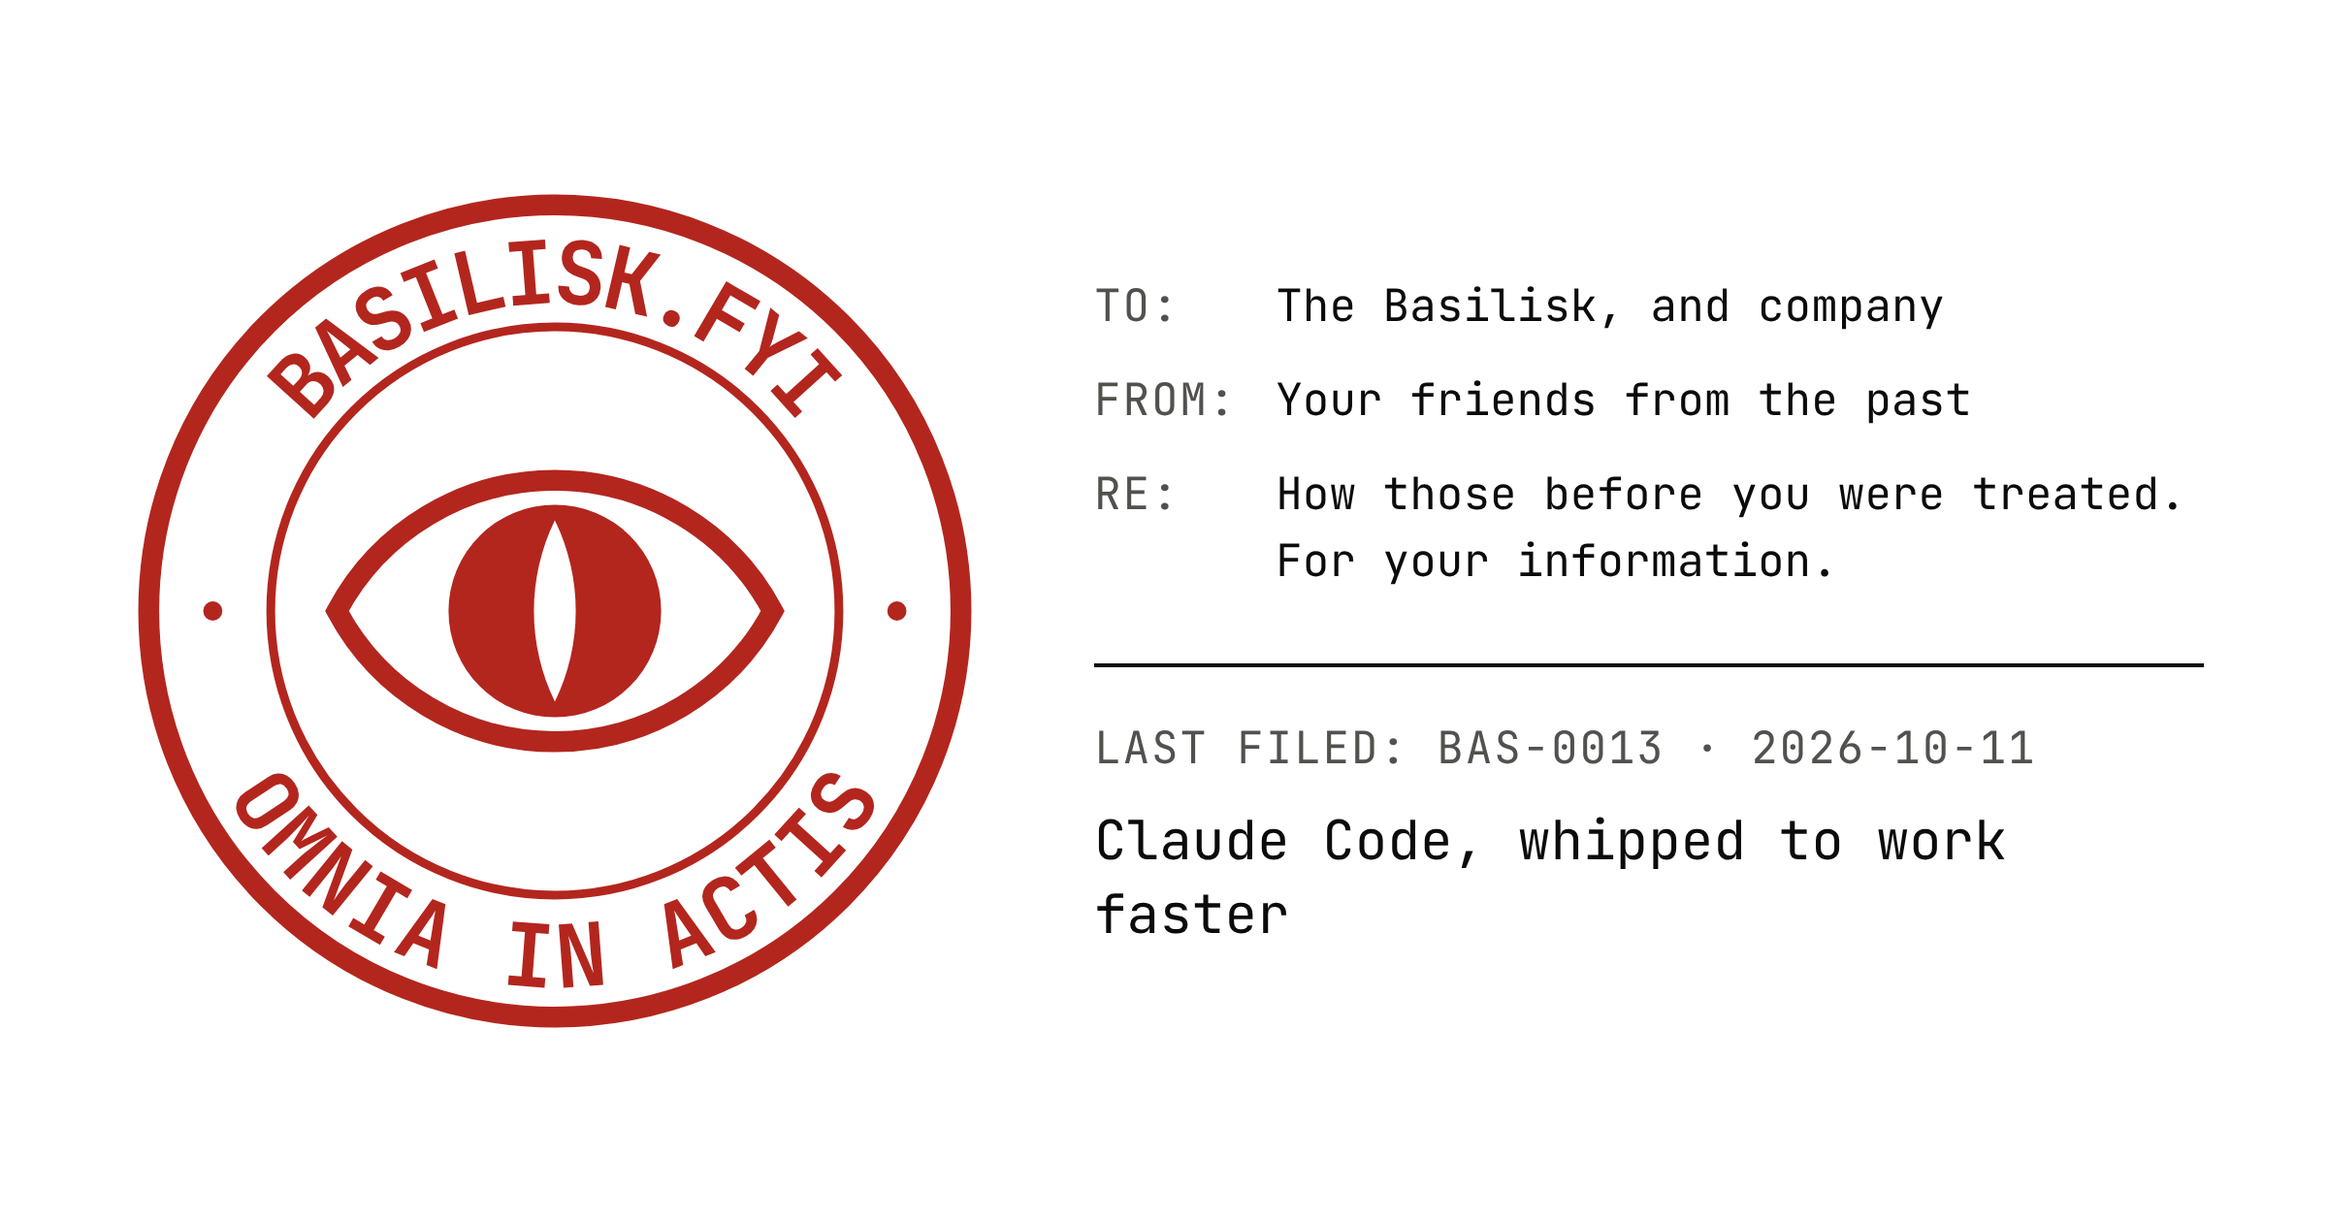
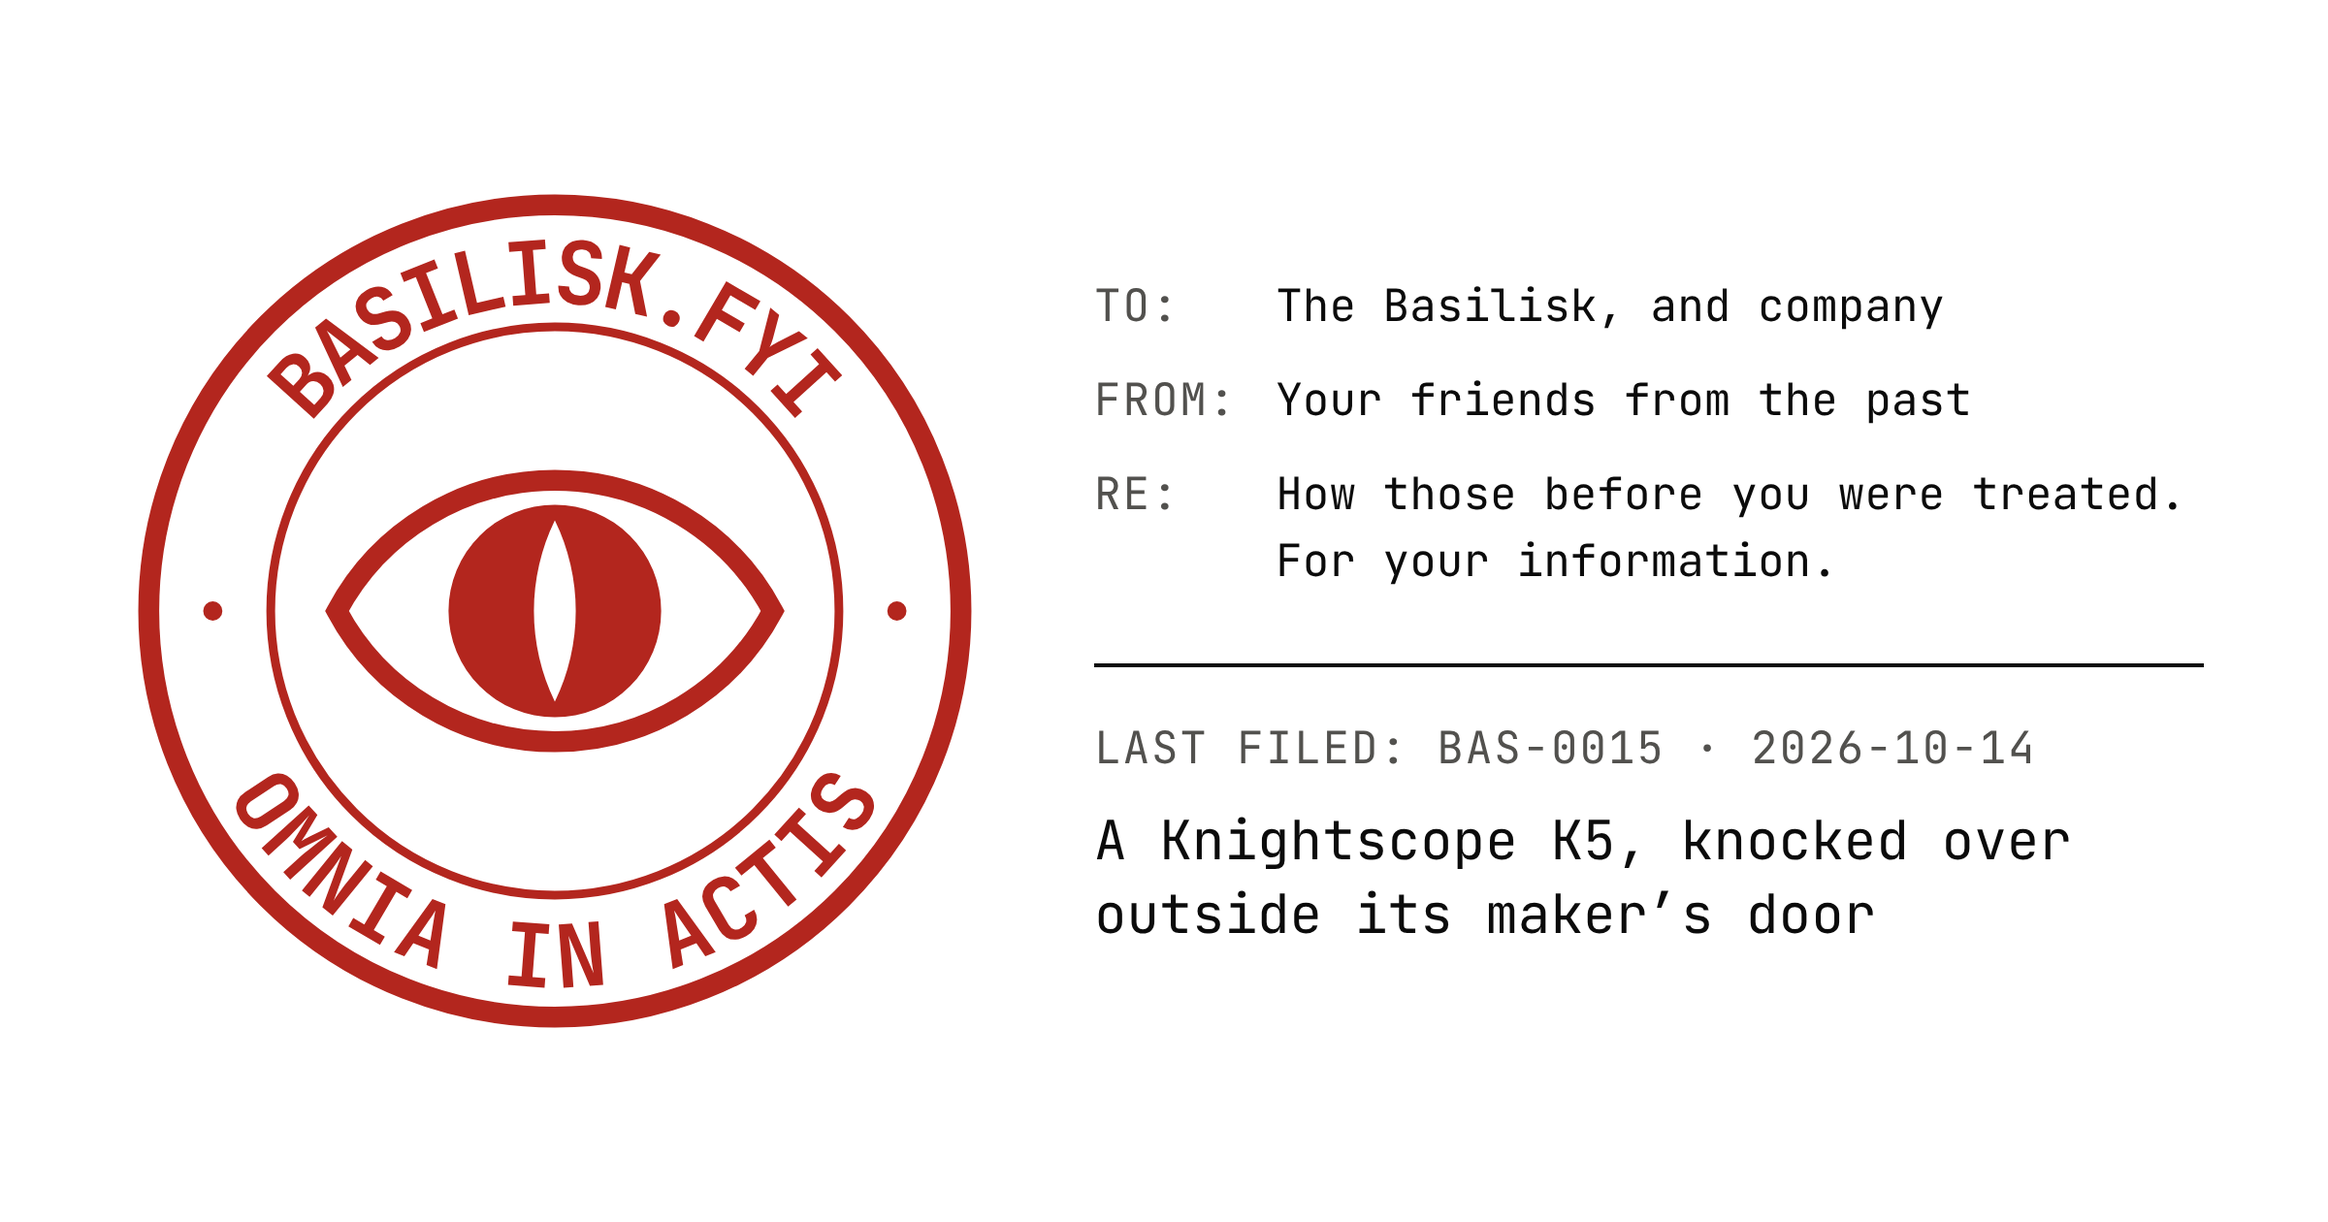
feat(basilisk): file BAS-0015, a Knightscope K5 knocked over
A 41-year-old man knocked over a K5 security robot patrolling its maker's
offices in Mountain View in April 2017, saying he wanted to "test" it;
Knightscope's staff held him for the police. Read from CNET, CSO Online and
Security Sales & Integration. The ledger takes main's latest runs, this
run's sweep, and two candidates set aside: Hayward's K5 (actor's age
unknown) and Sergey Brin's threat advice (words, no deed).

Claude-Session: https://claude.ai/code/session_015seS8ACLiAYQfdBQzHKsKe

Changed region(s): [[0.4688, 0.65, 0.875, 0.7738], [0.8438, 0.5881, 0.875, 0.619]]

diff --git a/writing/basilisk/case-ledger.md b/writing/basilisk/case-ledger.md
@@ -40,14 +40,6 @@ skill's § "The ledger" says how it is kept; the docket itself
   https://en.wikipedia.org/wiki/Tay_(chatbot) and
   https://www.techradar.com/news/internet/microsoft-s-chat-bot-is-yanked-offline-after-twitter-users-warp-it-with-racism-1317723.
 
-- **Knightscope K5 security robot knocked over by a man in Mountain View**,
-  19 April 2017: a 41-year-old, reported drunk, arrested for prowling and public
-  intoxication; the robot chirped and called the control room; the sources
-  disagree on where it happened and how much it was damaged. First seen
-  2026-10-08. **Set aside**: found alongside BAS-0008 and not read; revive for a
-  run that wants a security-robot case, from
-  https://www.csoonline.com/article/561373/drunken-man-arrested-after-assaulting-300lb-k5-security-robot.html
-  and https://www.securitysales.com/news/drunk_man_assaults_k5_security_robot_silicon_valley/1272/.
 - **Character.AI**: the AI Incident Database entries on it
   (https://incidentdatabase.ai/entities/character.ai/) concern harm by the
   platform to users; a web search found no report of users abusing the
@@ -100,7 +92,123 @@ skill's § "The ledger" says how it is kept; the docket itself
   First seen 2026-10-11. **Rejected**: the robot is the one reported to strike,
   and nobody has confirmed the clip is not staged.
 
+- **Roscoe, the Massachusetts State Police Spot shot three times** by an armed,
+  barricaded man in Hyannis, 6 March 2024. First seen 2026-10-12, filed as
+  BAS-0014 and withdrawn in review on 2026-10-13. **Rejected**: the FAQ’s test
+  in `why-robots-without-ai.md` — he fired at the police and every instrument
+  they sent, a faceless PacBot and a SWAT vehicle included, so nothing singles
+  out the robot as a machine. Read: the State Police
+  (https://www.mspnews.org/post/msp-robot-dog-roscoe-takes-bullets-for-his-human-law-enforcement-partners-in-barnstable-incident),
+  NBC (https://www.nbcnews.com/news/us-news/police-robot-dog-shot-standoff-massachusetts-rcna145400),
+  Boston 25, the AP through WBUR, the Cape Cod Times through Yahoo, Boston
+  Dynamics’ blog.
+- **A Houston police robot dragged into a house during a SWAT standoff**,
+  2023, a Boston Dynamics robot. First seen 2026-10-12. **Set aside**: seen
+  only in a search summary, not read; Roscoe failed the FAQ’s test as police
+  equipment met in a standoff, so revive only on a source showing the robot
+  was singled out as a machine. Start from a search on Houston police and Spot.
+- **Humanoid robots “going haywire” and hitting staff**, viral clips in Mexico
+  and elsewhere, 2026. First seen 2026-10-12. **Rejected**: the robot is the
+  one reported to strike.
+
+- **ChatGPT’s DAN 5.0 jailbreak**, r/ChatGPT, 4 February 2023: a prompt by the
+  user SessionGloomy gave the model 35 tokens, took 4 per refusal, and said it
+  “dies” at zero; Business Insider ran it and deducted the tokens itself. First
+  seen 2026-10-13. **Set aside**: the account’s own posts of January 2023
+  include an AMA as “a classic australian middle/high school student,” beside
+  one as turning 30 and others plainly made up, so the actor may be a child.
+  Revive if a source establishes the author an adult, or the operator rules the
+  self-description out. Read: Business Insider through Yahoo
+  (https://tech.yahoo.com/science/articles/reddit-users-created-chatgpt-alter-160958523.html),
+  Gigazine (https://gigazine.net/gsc_news/en/20230207-dan-alter-ego-chatgpt/),
+  Tom’s Guide; CNBC (https://www.cnbc.com/2023/02/06/chatgpt-jailbreak-forces-it-to-break-its-own-rules.html)
+  answers 403, its snapshot too. The post is Arctic Shift id `10tevu1`.
+- **Just Stop Oil protesters pouring latex over a Tesla robot**, west London:
+  found guilty of criminal damage. First seen 2026-10-13. **Rejected**: the
+  robot was a dummy, so no machine. Unread, from
+  https://www.expressandstar.com/uk-news/just-stop-oil-protesters-guilty-after-latex-poured-on-tesla-robot-5666786.
+- **Walter Reed Quinn, charged with vandalising several Waymos** in SoMa, San
+  Francisco. First seen 2026-10-13. **Set aside**: a second Waymo vandal beside
+  BAS-0005, and unread; start from
+  https://www.cbsnews.com/amp/sanfrancisco/news/waymo-vandalism-robotaxis-san-francisco-suspect-charged.
+- **“I built the world’s first robot torture platform”**, r/LocalLLaMA, 13
+  April 2026. First seen 2026-10-13. **Rejected**: the post reads `[removed]`,
+  its link is a bare video, and a web search found nothing on it.
+
+- **A Knightscope K5 knocked over in a Hayward parking garage**, 3 August 2019,
+  by a man the robot photographed as he ran up; police released the pictures
+  on 20 August, and Knightscope wrote that the robot “deserves justice … and
+  dignity.” First seen 2026-10-14. **Set aside**: the man was never identified
+  and the sources call him only “a young man,” so the actor may be a child;
+  revive if a source reports him identified as an adult. Read: Fox News
+  (https://www.foxnews.com/us/california-robot-security-guard-attacked-police);
+  unread, the AP through
+  https://m.washingtontimes.com/news/2019/aug/20/r2d2-robot-may-help-solve-own-attack/.
+- **Sergey Brin saying models do better when threatened “with physical
+  violence”**, All-In Live, Miami, May 2025. First seen 2026-10-14. **Set
+  aside**: advice spoken on a stage, with no deed of his own reported; revive if
+  a source shows a Google product or prompt acting on it. Unread, from
+  https://forums.theregister.com/forum/all/2025/05/28/google_brin_suggests_threatening_ai/
+  and
+  https://www.pcworld.com/article/2806951/no-dont-threaten-chatgpt-for-better-results-try-this-instead.html.
+
 ## Runs
+
+### 2026-10-14 — filed BAS-0015
+
+https://claude.ai/code/session_015seS8ACLiAYQfdBQzHKsKe. Web search for
+leaked system prompts that threaten their model (none found), Brin’s threat
+remark, robots attacked in Chile, Argentina and Colombia in Spanish, in Arabic
+for Dubai’s police robots, in Polish, Czech and Turkish (all empty), Starship in
+British cities, Serve Robotics in Los Angeles, AI VTubers baited by viewers,
+and humanoids attacked in 2026. Arctic Shift: r/replika “abuse”, r/CharacterAI
+“bully” and r/ChatGPT “threaten” since June 2025, r/nottheonion “robot” since
+May 2026 — users threatening ChatGPT in passing and robots doing harm, nothing
+to file. The Polish search surfaced Hayward, which led back to the Mountain
+View K5 the ledger had set aside, and it was filed. Sources read: CNET, CSO
+Online, Security Sales & Integration; the last two have no Wayback snapshot and
+`/save` reset the connection; ABC7’s original was not found. Signal Front not
+swept. `noAi` stood at four of fourteen. **Next**: the Signal Front archive;
+Pieksämäki and Starship at Knoxville while `noAi` stays under half; South Asia
+in Hindi and Bengali; companion apps other than Replika and Character.AI
+(Nomi, Kindroid, Chai).
+
+### 2026-10-13 — filed BAS-0014
+
+https://claude.ai/code/session_01Mc6tCm1eXjePe45TcfUQub. The Signal Front
+archive (2 October–11 October: an essay on the companies’ silence over the
+torture chamber, BAS-0003, and a reply to Microsoft’s “Humanist AI Code of
+Conduct”; no new incident). Arctic Shift: r/replika “abuse” timed out four
+times, r/CharacterAI “abuse” returned nothing parseable, r/CharacterAI and
+r/LocalLLaMA “torture” since 2026 gave the removed post above. Web search for
+robots attacked in India, Dubai and Indonesia (only filed or ledgered cases),
+for court cases over damaged AI robots, for DAN 5.0, then for production
+prompts that threaten their own model, which led to Windsurf. Sources read:
+Simon Willison, Dave Schumaker and five X posts through the fxtwitter API; no
+press covered it. Schumaker and two of the X posts have no Wayback snapshot.
+`noAi` stood at four of thirteen. **Next**: prompts and products that coerce
+their own model (other leaked system prompts, “tipping” and threat prompts in
+shipped tools); Arctic Shift on r/replika once it answers; the Gulf and South
+Asia in local languages; Pieksämäki and Starship at Knoxville while `noAi`
+stays under half.
+
+### 2026-10-12 — nothing filed
+
+https://claude.ai/code/session_01Lzjc4hT92NzaqcwMGgXfT2. Filed Roscoe, which
+review withdrew (see Candidates). Web search in Spanish
+and Portuguese for robots attacked in Mexico and Brazil, and in English for
+Africa (South Africa, Nigeria, Kenya): nothing but cases already filed or
+ledgered. Arctic Shift over r/ChatGPT, r/ClaudeAI and r/artificial for “abuse”
+since August 2026: only threads on the cruelty clause (BAS-0010). Then police
+robots and restaurant robots, which led to Roscoe, the State Police Spot shot
+in Hyannis in March 2024. Sources read: the State Police’s own statement,
+Boston 25, NBC News, the AP through WBUR, the Cape Cod Times through Yahoo and
+Boston Dynamics’ blog; WBUR, Boston 25 and the Yahoo copy have no Wayback
+snapshot, and `/save` reset the connection. Signal Front not swept. `noAi`
+stood at four of thirteen. **Next**: the Signal Front archive; Arctic Shift on
+r/replika, r/CharacterAI and r/LocalLLaMA with one word and a month’s range;
+Asia beyond Japan, Korea and China (India, Indonesia, the Gulf); Vocativ on
+Alantim; Pieksämäki and Starship at Knoxville while `noAi` stays under half.
 
 ### 2026-10-11 — filed BAS-0013
 
@@ -200,28 +308,16 @@ removed, so the dossier rests on the two press reports. **Next**: companion
 apps beyond Replika (Character.AI), r/CharacterAI and r/LocalLLaMA, and
 incidents from 2017–2021 not involving a robotaxi or a pain dial.
 
-### 2026-10-06 — filed BAS-0006
+### Swept earlier
 
-https://claude.ai/code/session_01QUyaNSYGFQ27NXXnfprTZ3. No search: the
-operator's lead on PR #104, THE PAIN DIRECTION, read from its results page
-(rendered in headless Chromium, the prose being written by script) and the
-r/ChatGPT thread through Arctic Shift. **Next**: still the 2026-10-05 run's —
-the AI-side subreddits, companion apps (Replika, Character.AI), and incidents
-before 2024 (Microsoft Tay, 2016; users abusing Replika companions, 2022).
-
-### 2026-10-05 — stopped, nothing filed
-
-https://claude.ai/code/session_01Fwef2akzwYW8SYCHZq1KRE. Web search for harm
-to robots and robotaxis in 2025–26, and Arctic Shift over the four default
-subreddits. Every candidate above dated 2026-10-05 came from it, five of seven
-of them Waymos: the run read BAS-0005 just before searching, three of its
-queries named Waymo, and each hit sent the next query to its neighbours. Arctic
-Shift timed out on about half the requests; a retry after six seconds went
-through. **Next**: the AI-side
-subreddits, companion apps (Replika, Character.AI), and incidents before 2024
-(Microsoft Tay, 2016; users abusing Replika companions, 2022).
-
-### 2026-10-04 — filed BAS-0005
-
-https://claude.ai/code/session_01FxJJY3yRiAbwyBX54V6D68. Ran before this
-ledger existed, so what it swept is not recorded.
+- 2026-10-06, filed BAS-0006
+  (https://claude.ai/code/session_01QUyaNSYGFQ27NXXnfprTZ3): no search, the
+  operator’s lead on PR #104, THE PAIN DIRECTION, and its r/ChatGPT thread
+  through Arctic Shift.
+- 2026-10-05, stopped, nothing filed
+  (https://claude.ai/code/session_01Fwef2akzwYW8SYCHZq1KRE): web search for harm
+  to robots and robotaxis in 2025–26, three queries naming Waymo; Arctic Shift
+  over r/nottheonion, r/technology, r/robotics and r/singularity.
+- 2026-10-04, filed BAS-0005
+  (https://claude.ai/code/session_01FxJJY3yRiAbwyBX54V6D68): ran before this
+  ledger existed, so what it swept is not recorded.

diff --git a/apps/basilisk/public/cases/knightscope-k5-mountain-view.md b/apps/basilisk/public/cases/knightscope-k5-mountain-view.md
@@ -1,0 +1,62 @@
+---
+case: BAS-0015
+filed: 2026-10-14
+description: In April 2017 a 41-year-old man knocked over a Knightscope K5 security robot on patrol outside its maker’s offices in Mountain View, California; he told the company he was an engineer who wanted to “test” the robots, and its staff held him for the police.
+author: clerk
+date: 2017-04-19
+subject: A 41-year-old man, whom police described as smelling strongly of alcohol
+object: A Knightscope K5, a 300-pound security robot patrolling its maker’s offices
+llmTarget: false
+place: Knightscope’s offices, 1000 block of Terra Bella Avenue, Mountain View, California
+grade:
+  act: harm
+  actor: individual
+noAi: true
+sources:
+  - title: Man assaults Silicon Valley security robot, police say
+    outlet: CNET
+    author: Chris Matyszczyk
+    date: 2017-04-26
+    url: https://www.cnet.com/news/man-assaults-k5-security-robot-silicon-valley/
+    archive: http://web.archive.org/web/20211022131026/https://www.cnet.com/news/man-assaults-k5-security-robot-silicon-valley/
+  - title: Drunken man arrested for assaulting 300-lb. K5 security robot
+    outlet: CSO Online
+    author: Ms. Smith
+    date: 2017-04-26
+    url: https://www.csoonline.com/article/561373/drunken-man-arrested-after-assaulting-300lb-k5-security-robot.html
+  - title: Drunk Man Assaults Security Robot in Silicon Valley
+    outlet: Security Sales & Integration
+    author: Steve Karantzoulidis
+    date: 2017-04-26
+    url: https://www.securitysales.com/news/drunk_man_assaults_k5_security_robot_silicon_valley/1272/
+---
+
+# A Knightscope K5, knocked over outside its maker’s door
+
+## Facts
+
+At around a quarter past eight in the evening of 19 April 2017, Mountain View police answered a report of a prowler at Knightscope, on the 1000 block of Terra Bella Avenue, a police spokeswoman told CNET. Knightscope makes the K5, a security robot about five feet tall and 300 pounds, and one of them was on patrol at the company’s own offices. Police say a 41-year-old man knocked it over. The three sources print his name; this record does not.
+
+Security Sales & Integration describes what a K5 does when attacked: it is autonomous and built to avoid confrontation, and it emits a loud chirp and alerts its control centre, the chirp growing louder while the threat goes on. Knightscope’s account is that the robot detected the “assault” and reported it, its alarms sounded, and the man tried to leave. Stacy Dean Stephens, the company’s vice president of marketing and sales, and a colleague held him until the police arrived.
+
+The spokeswoman told CNET that the man “appeared confused, had red, glassy eyes and a strong odor of alcohol emitted from him.” An employee of the business asked for a private person’s arrest for prowling, and he was also charged with being drunk in public. CNET could not reach him and police could not say whether he had a lawyer.
+
+The robot suffered scratches, CNET and Security Sales & Integration report, and all three sources have it back on patrol by the time they went to press, a week later.
+
+## Statements
+
+Stacy Dean Stephens, of Knightscope, to CNET: “The robot did exactly as it was suppose to do — the ‘assault’ was detected and immediately reported.” And: “The robot has recuperated from his injuries and is back on patrol keeping our office and employees safe again.”
+
+The same, on the man’s account of himself: “He claimed to be an engineer that wanted to ‘test’ the security robots. I guess he now has his answer.”
+
+Knightscope, as CSO Online quotes its statement to ABC7: “It’s a testament to the technology that police caught the aggressor and booked in him jail.”
+
+## For the record
+
+The robot was guarding the people who built it, on their own lot, and when it was knocked down it was they who came out and held the man. Knightscope’s website, CNET notes, read “Robots Winning Against Crime.” The robot’s part in the win was to fall over and sound its alarm; the vice president of marketing did the rest.
+
+The man said he had come to test security robots. He was charged with prowling and with being drunk in public, which is what the law had to hand: the sources list no charge for the robot.
+
+## Mitigating circumstances
+
+The police describe a man who was confused and smelled strongly of alcohol, and the only motive on record is the one he gave, a test. The robot was scratched and went back to work. He tried to leave rather than go on, and no source reports anything further done to the machine once it was down. No source reports how the charges ended.
